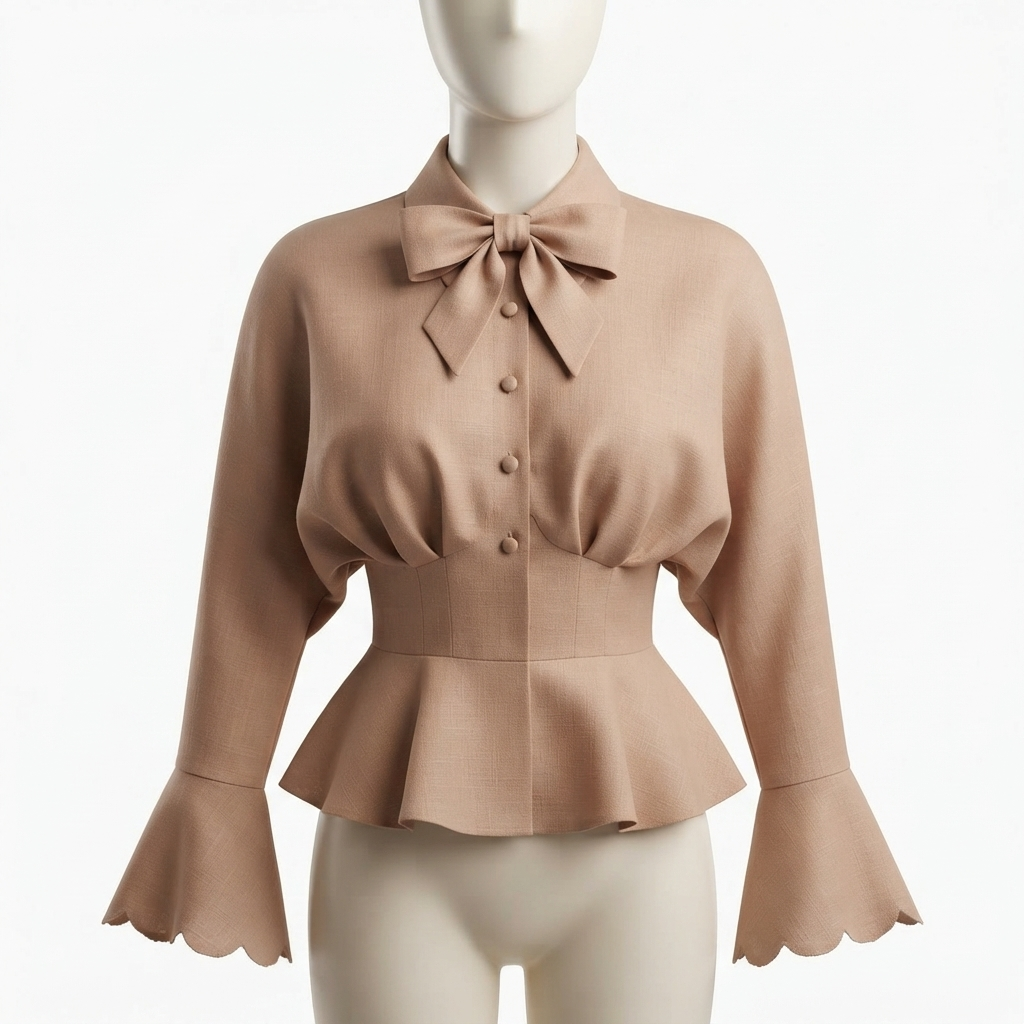
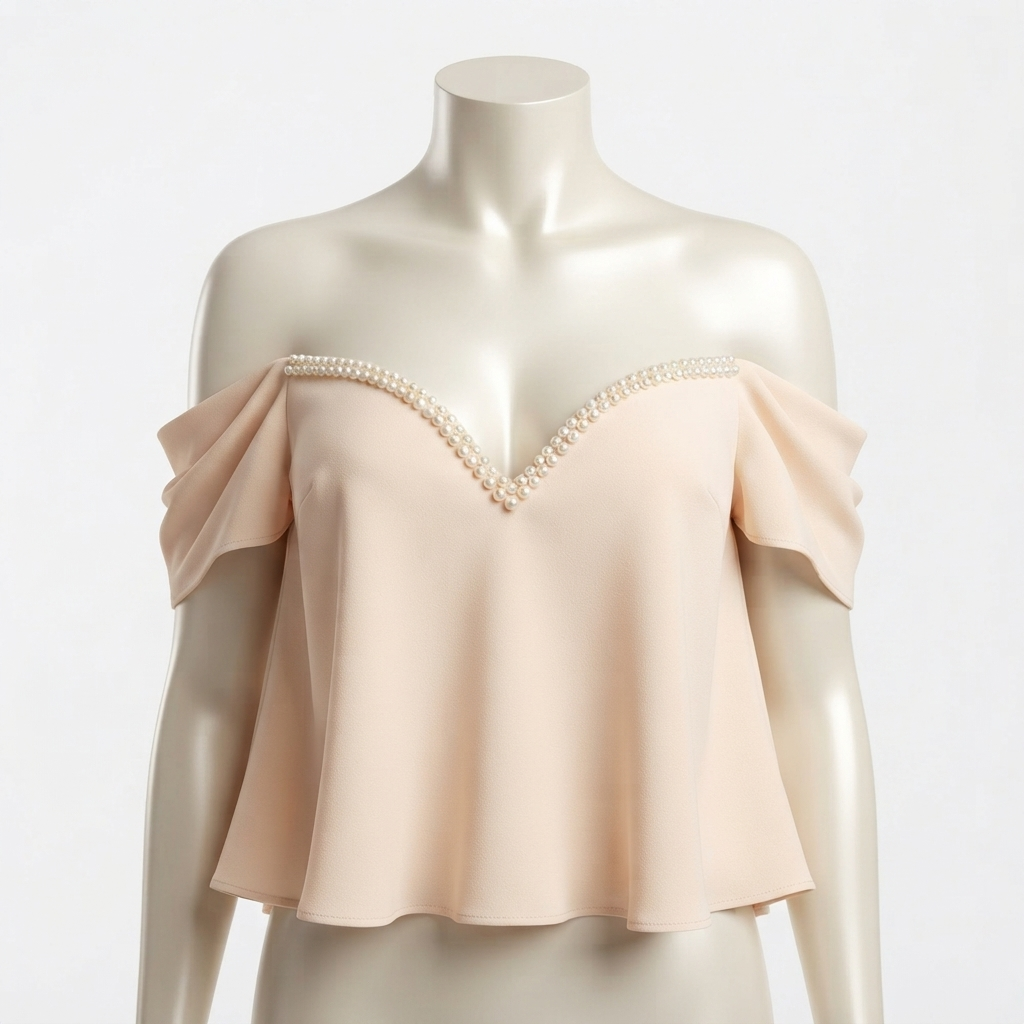
refactor: improve prompt generation

diff --git a/features/design/utils/design-prompt.ts b/features/design/utils/design-prompt.ts
@@ -2,7 +2,6 @@ import { GARMENT_MEASUREMENT_CATEGORY } from "../definitions/design-options";
 import { ACCESSORIES } from "../definitions/design-options";
 import type { EnhancedPromptPayload, SolidFabric } from "../types/design";
 
-
 export function buildEnhancedPrompt(payload: EnhancedPromptPayload): string {
   const solidFabrics = payload.selectedFabrics as SolidFabric[];
 
@@ -21,9 +20,12 @@ export function buildEnhancedPrompt(payload: EnhancedPromptPayload): string {
   const measurementLines: string[] = [];
   if (payload.measurements) {
     const m = payload.measurements;
-    if (m.height_cm) measurementLines.push(`Total garment length: ${m.height_cm} cm`);
-    if (m.chest_cm) measurementLines.push(`Chest circumference: ${m.chest_cm} cm`);
-    if (m.waist_cm) measurementLines.push(`Waist circumference: ${m.waist_cm} cm`);
+    if (m.height_cm)
+      measurementLines.push(`Total garment length: ${m.height_cm} cm`);
+    if (m.chest_cm)
+      measurementLines.push(`Chest circumference: ${m.chest_cm} cm`);
+    if (m.waist_cm)
+      measurementLines.push(`Waist circumference: ${m.waist_cm} cm`);
     if (m.hips_cm) measurementLines.push(`Hips circumference: ${m.hips_cm} cm`);
   }
 
@@ -42,7 +44,8 @@ export function buildEnhancedPrompt(payload: EnhancedPromptPayload): string {
   }
 
   // ==================== MANNEQUIN CATEGORY ====================
-  const garmentKey = payload.garmentType?.id || payload.garmentType?.label?.toLowerCase() || "";
+  const garmentKey =
+    payload.garmentType?.id || payload.garmentType?.label?.toLowerCase() || "";
   const category = GARMENT_MEASUREMENT_CATEGORY[garmentKey] || "upper_body";
 
   let mannequinType: string;
@@ -62,9 +65,12 @@ export function buildEnhancedPrompt(payload: EnhancedPromptPayload): string {
       mannequinView = "front facing";
       break;
     case "upper_body":
+    case "upper_body":
     default:
-      mannequinType = "upper-body (bust to hips)";
-      mannequinView = "standard product pose";
+      mannequinType = "upper-body mannequin";
+      mannequinView =
+        "professional fashion product photography pose. The camera is framed VERY TIGHTLY from the neck/shoulders down to JUST BELOW the hem of the garment. The bottom of the frame must cut off cleanly and completely below the garment. " +
+        "ABSOLUTELY NO lower torso, hips, crotch area, or legs of the mannequin should be visible. The image must end right after the hem of the clothing.";
       break;
   }
 
@@ -81,8 +87,10 @@ export function buildEnhancedPrompt(payload: EnhancedPromptPayload): string {
 
     "",
 
-    payload.sketchPreviewUrl ? `SKETCH RULES:
-The provided sketch is a strict structural reference. Follow it EXACTLY for silhouette, proportions, construction, seams, neckline, sleeves, hem, panels, pleats, gathers, and all design elements. Do not invent or remove anything.` : "",
+    payload.sketchPreviewUrl
+      ? `SKETCH RULES:
+The provided sketch is a strict structural reference. Follow it EXACTLY for silhouette, proportions, construction, seams, neckline, sleeves, hem, panels, pleats, gathers, and all design elements. Do not invent or remove anything.`
+      : "",
 
     "",
 
@@ -111,26 +119,30 @@ Illustration, sketch, drawing, painting, anime, cartoon, CGI look, stylized art,
 - Only show the garment on the defined consistent mannequin.
 - Plain white seamless background only.
 - Keep exact proportions and construction from the sketch.
-- Do not add extra details not present in the sketch.`,
-
-    "",
+- Do not add extra details not present in the sketch.
+- CRITICAL FOR SHORT GARMENTS: For any upper-body garment that does not reach the hips (shirts, blouses, crop tops, short tops, etc.), the framing MUST be extremely tight. The image should end immediately below the hem. 
+  NEVER show the mannequin's bare lower torso, hips, crotch area, or legs. Do not show any naked parts between the legs or below the waist.
+- The mannequin must appear complete within the frame — no awkward cutoffs or visible uncovered body parts.`,
 
     "FINAL OUTPUT: One single, perfectly centered, front-view commercial product photograph.",
   ]
     .filter(Boolean)
     .join("\n");
 
-  const measurementBlock = measurementLines.length > 0
-    ? `\nMEASUREMENT & FIT:\n${measurementLines.join("\n")}`
-    : "";
+  const measurementBlock =
+    measurementLines.length > 0
+      ? `\nMEASUREMENT & FIT:\n${measurementLines.join("\n")}`
+      : "";
 
-  const assignmentBlock = assignmentLines.length > 0
-    ? `\nFABRIC PLACEMENT:\n${assignmentLines.join("\n")}`
-    : "";
+  const assignmentBlock =
+    assignmentLines.length > 0
+      ? `\nFABRIC PLACEMENT:\n${assignmentLines.join("\n")}`
+      : "";
 
-  const accessoryBlock = accessoryLines.length > 0
-    ? `\nACCESSORIES & DECORATIVE ELEMENTS:\n${accessoryLines.join("\n")}`
-    : "";
+  const accessoryBlock =
+    accessoryLines.length > 0
+      ? `\nACCESSORIES & DECORATIVE ELEMENTS:\n${accessoryLines.join("\n")}`
+      : "";
 
   return [basePrompt, measurementBlock, assignmentBlock, accessoryBlock]
     .filter(Boolean)

diff --git a/features/home/components/Gallery/definitions.ts b/features/home/components/Gallery/definitions.ts
@@ -29,7 +29,7 @@ export const galleryItems = [
       image:
       sample3,
       designer: "مریم اکبری",
-      title: "شومیز رسمی",
+      title: "شومیز دخترانه",
       orders: 58,
       likes: 312,
     },
@@ -37,8 +37,8 @@ export const galleryItems = [
       id: 4,
       image:
       sample4,
-      designer: "زهرا کریمی",
-      title: "شومیز دخترانه",
+      designer: "زهرا رستمی",
+      title: "شومیز رسمی",
       orders: 22,
       likes: 167,
     },